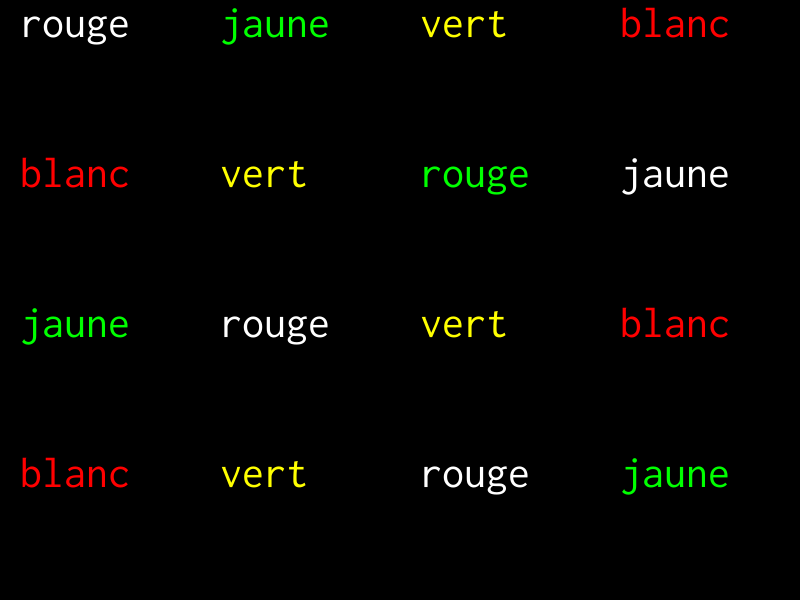
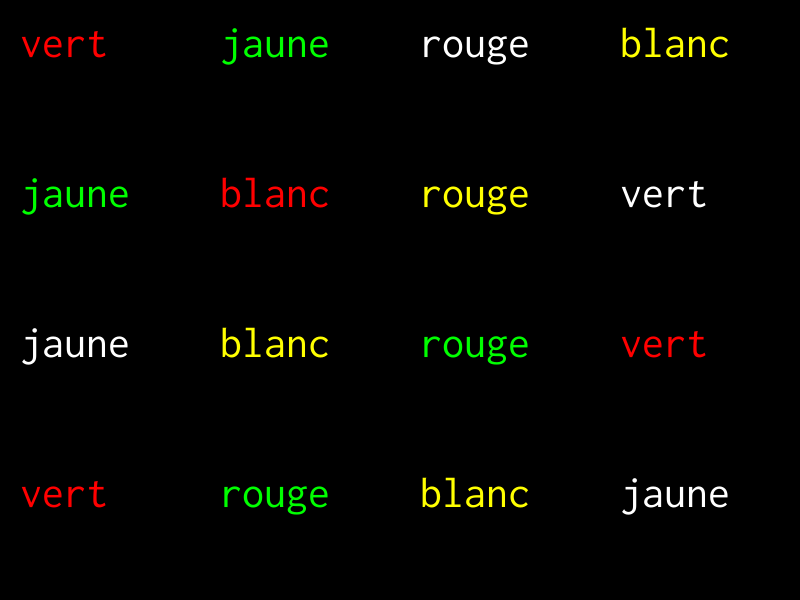
cleaned create_stroop_card.py

diff --git a/experiments/stroop/create_stroop_cards.py b/experiments/stroop/create_stroop_cards.py
@@ -1,20 +1,56 @@
 #! /usr/bin/env python
-# Time-stamp: <2021-04-05 20:26:07 christophe@pallier.org>
+# Time-stamp: <2021-04-15 10:23:31 christophe@pallier.org>
 # Author: Christophe Pallier (see http://www.pallier.org)
 
 import random
 import pygame
 
+RED = pygame.Color('red')
+YELLOW = pygame.Color('yellow')
+GREEN = pygame.Color('green')
+WHITE = pygame.Color('white')
+BLACK = pygame.Color("black")
 
-def share_item_in_same_position(list1, list2):
-    return any([i == j  for (i, j) in zip(list1, list2)])
+
+french = (('rouge', RED), ('blanc', WHITE), ('jaune', YELLOW), ('vert', GREEN))
+english = (('red', RED), ('white', WHITE), ('yellow', YELLOW), ('green', GREEN))
+basque = (('gorri', RED), ('zuri', WHITE), ('horri', YELLOW), ('berde', GREEN))
 
 
-def create_stroop_card(items, font, background_color=pygame.Color('black')):
+def match(word, color, items):
+    return (word, color) in items
+
+
+def generate_array(n_row, n_col, items):
+    """ returns an array (list of lists) of n rows, p columns
+        containing pairs (word, color)
+        such that there is no repetition of color on line,
+        nor in successive rows.
+    """
+    words = [x for x, y in items]
+    colors = [y for x, y in items]
+    array = []
+
+    # we fill row by row, checking compatibility with previous row
+    previous_row = [""] * n_col  # colors on the current row
+    for i_row in range(n_row):
+        perm1 = random.sample(words, n_col)
+        perm2 = random.sample(colors, n_col)
+        while any([match(word, color, items) for word, color in zip(perm1, perm2)]) or \
+              any([col1 == col2 for col1, col2 in zip(previous_row, perm2)]):
+            perm2 = random.sample(colors, n_col)
+
+        array.append(list(zip(perm1, perm2)))
+        previous_row = perm2
+
+    return array
+
+
+def create_stroop_card(array, font, background_color=pygame.Color('black')):
     """Create an image representing a Stroop card.
 
     Argument:
-       items              :   a dictionary word->color, e.g. {'rouge':'red', 'bleu':'blue', 'vert':'green', 'jaune':'yellow'}
+       items              :   a table (list of lists) of pairs (string, color)
        font               :   a pygame font object
        background_color 
 
@@ -22,44 +58,26 @@ def create_stroop_card(items, font, background_color=pygame.Color('black')):
        a pygame surface
     """
 
-    words = list(items.keys())
-    colors = list(items.values())
-    n = len(items)
-
     W, H = 800, 600
     margin = 20
-
     grid = pygame.Surface((W, H))
     grid.fill(background_color)
 
-    label = pygame.Surface((W, H))
-
-    previous_row = [-1, -1, -1, -1]  # colors on the current row
-    for i_row in range(n):
-        i_word = random.sample(range(n), n)
-        i_color = random.sample(range(n), n)
-        while share_item_in_same_position(i_word, i_color) or \
-              share_item_in_same_position(previous_row, i_color):
-            i_color = random.sample(range(n), n)
-
-        previous_row = i_color
-
-        # fill the current row
-        y = i_row * H / n + margin
-
-        for i in range(n):
-            x = i * W / n + margin
-            label.fill(background_color)
-            label.blit(font.render(words[i_word[i]],
-                                   True, pygame.color.Color(colors[i_color[i]])), (0, 0))
-            grid.blit(label, (x, y))
+    n_row = len(array)
+    n_col = len(array[0])
+    for i_row, row in enumerate(array):
+        for i_col, pair in enumerate(row):
+            word, color = pair
+            grid.blit(font.render(word, True, color),
+                      (i_col * W / n_col + margin, i_row * H / n_row + margin))
     return grid
 
 
 def create_cards(items, font, ncards, template):
-    for i in range(ncards):
-        grid = create_stroop_card(items, font, pygame.Color('black'))
-        pygame.image.save(grid, template % (i))
+    for i in range(1, ncards + 1):
+        word_color_array = generate_array(4, 4, items)
+        grid = create_stroop_card(word_color_array, font, pygame.Color('black'))
+        pygame.image.save(grid, template % i)
 
 
 if __name__ == "__main__":
@@ -69,20 +87,8 @@ if __name__ == "__main__":
     font_size = 44
     font = pygame.font.Font(font, font_size)
 
-    create_cards({'rouge': 'red',
-                  'blanc': 'white',
-                  'vert': 'green',
-                  'jaune': 'yellow'},
-                 font, 4, "Stroop_French_%02d.png")
-    create_cards({'red': 'red',
-                  'white': 'white',
-                  'green': 'green',
-                  'yellow': 'yellow'},
-                 font, 4, "Stroop_English_%02d.png")
-    create_cards({'gorri': 'red',
-                  'zuri': 'white',
-                  'berde': 'green',
-                  'horri': 'yellow'},
-                 font, 4, "Stroop_Basque_%02d.png")
+    create_cards(french, font, 4, "Stroop_French_%02d.png")
+    create_cards(english, font, 4, "Stroop_English_%02d.png")
+    create_cards(basque, font, 4, "Stroop_Basque_%02d.png")
 
     pygame.quit()
